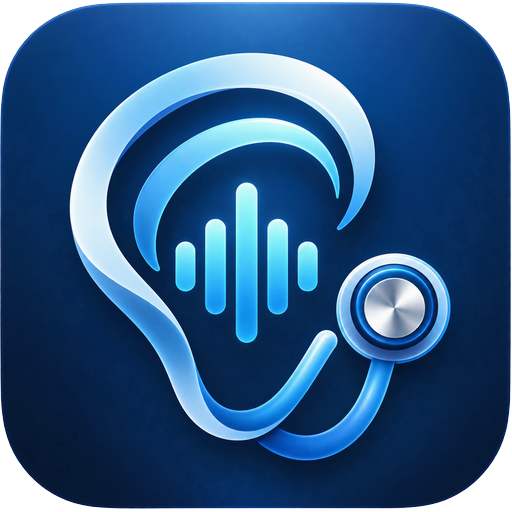
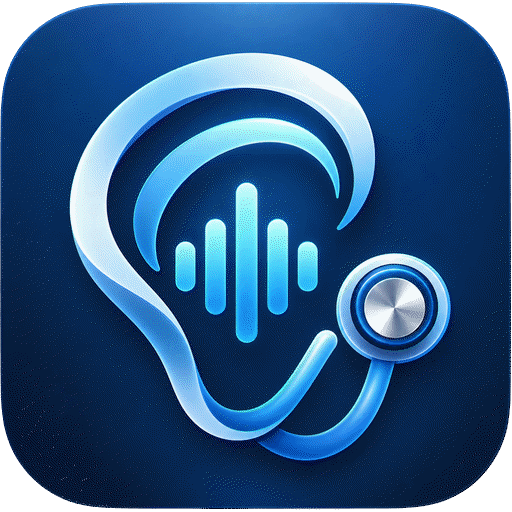
T270: boş sims/ iskeleti kaldırıldı, okuma sınırı desenleri gerçek yollara (AGENTS, .ignore, .cursorignore, .claude/settings), görseller %80 küçültüldü (DeepSeek; review: Claude)

diff --git a/AGENTS.md b/AGENTS.md
@@ -19,7 +19,7 @@ Gerçek öğrenci verisi repoya girmez. Mock veri deterministik tohumludur. Sır
 Her görev tek paket/uygulama ve yaklaşık en fazla 400 satır diff hedefler. Aynı pakette paralel Running görev açma. Sözleşme değişikliği tüketicilerinden önce birleştirilir. Artefaktlar git dışı `.egemed-run/research.md`, `plan.md`, `summary.md`, `review.md` dosyalarında tutulur. İnsan onayı ve merge yalnız depo sahibindedir.
 
 ## Okuma sınırı
-`sims/*/src/data/*.json`, `sims/*/public/assets/**`, `**/dist/**`, `**/*.lock`, `reports/**` topluca okunmaz. Gerekirse sadece hedefli `head` veya `jq`. Gerçek veri veya sır içeren dosyayı ajan bağlamına alma.
+`packages/sim-*/src/data/*.json`, `packages/sim-*/public/**`, `packages/assessment-bank/data/**`, `**/dist/**`, `**/*.lock`, `reports/**` topluca okunmaz. Gerekirse sadece hedefli `head` veya `jq`. Gerçek veri veya sır içeren dosyayı ajan bağlamına alma.
 
 ## Kodlama ilkeleri
 Kaynak: [forrestchang/andrej-karpathy-skills](https://github.com/forrestchang/andrej-karpathy-skills) `CLAUDE.md` — yaygın LLM kodlama hatalarını azaltan davranış ilkeleri; projeye özgü kurallarla birlikte uygulanır.

diff --git a/README.md b/README.md
@@ -55,7 +55,6 @@ yönetici `#/giris/admin` → `admin` / `egemed`; test öğrencisi `#/giris/test
 | `docs/specs/` | Epik ve plan belgeleri (E0–E3) | Aşağıda §5 |
 | `docs/agentic/` | Ajan devir/kurulum notları (`CODEX-DEVIR.md`) | Tarihsel bağlam |
 | `docs/ops/` · `docs/audits/` | Üretim işletim kılavuzu ve denetim raporları (güvenlik, test bulguları) | Yayın hazırlığı ve denetim kaydı |
-| `sims/` | **Eski yer tutucu** — K-P1 kararıyla simler `packages/sim-<id>` altında; burası arşiv/boş | Lint ve workspace dışı |
 | `.agtx/` | Görev worktree'leri (`.agtx/worktrees/<görev>`) ve pano verisi — **git dışı** | Lint'ten hariç |
 
 **Kaynak (eski) depolar** — salt okunur referans, platforma port edilen kod buradan gelir:
